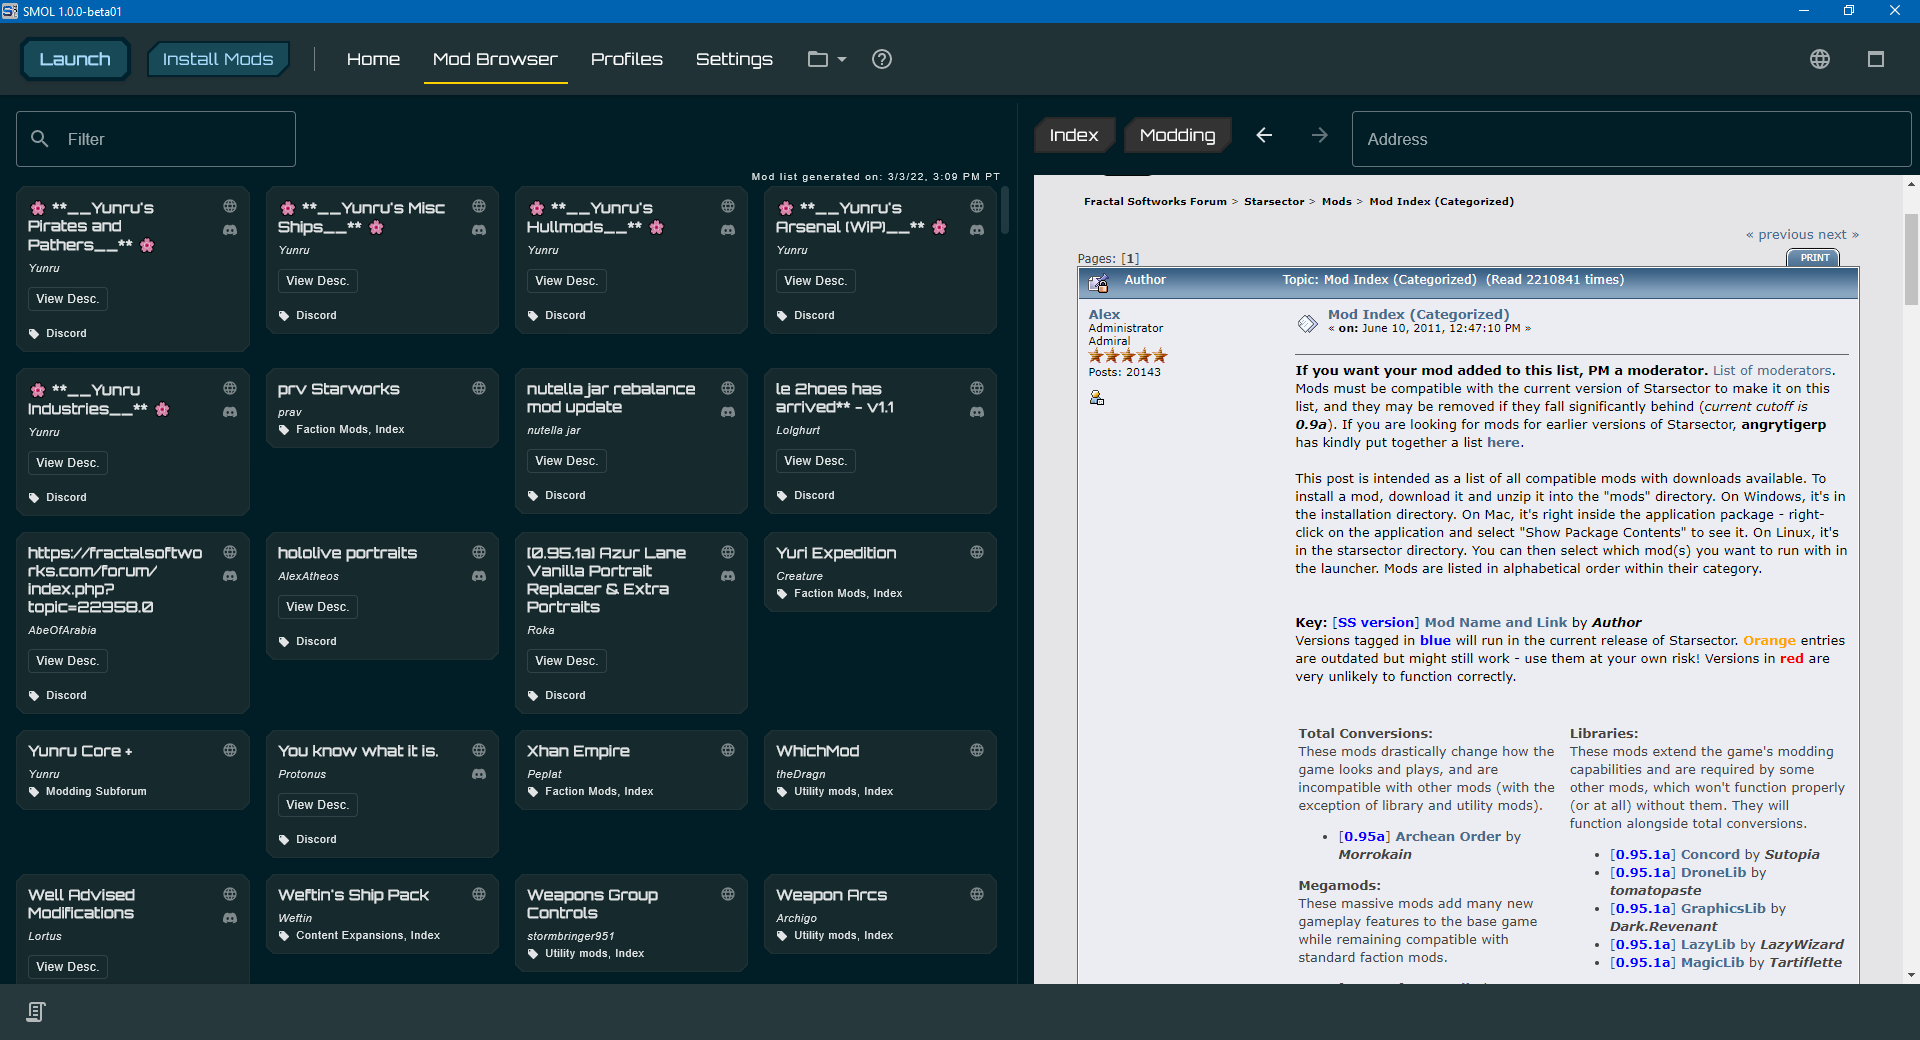
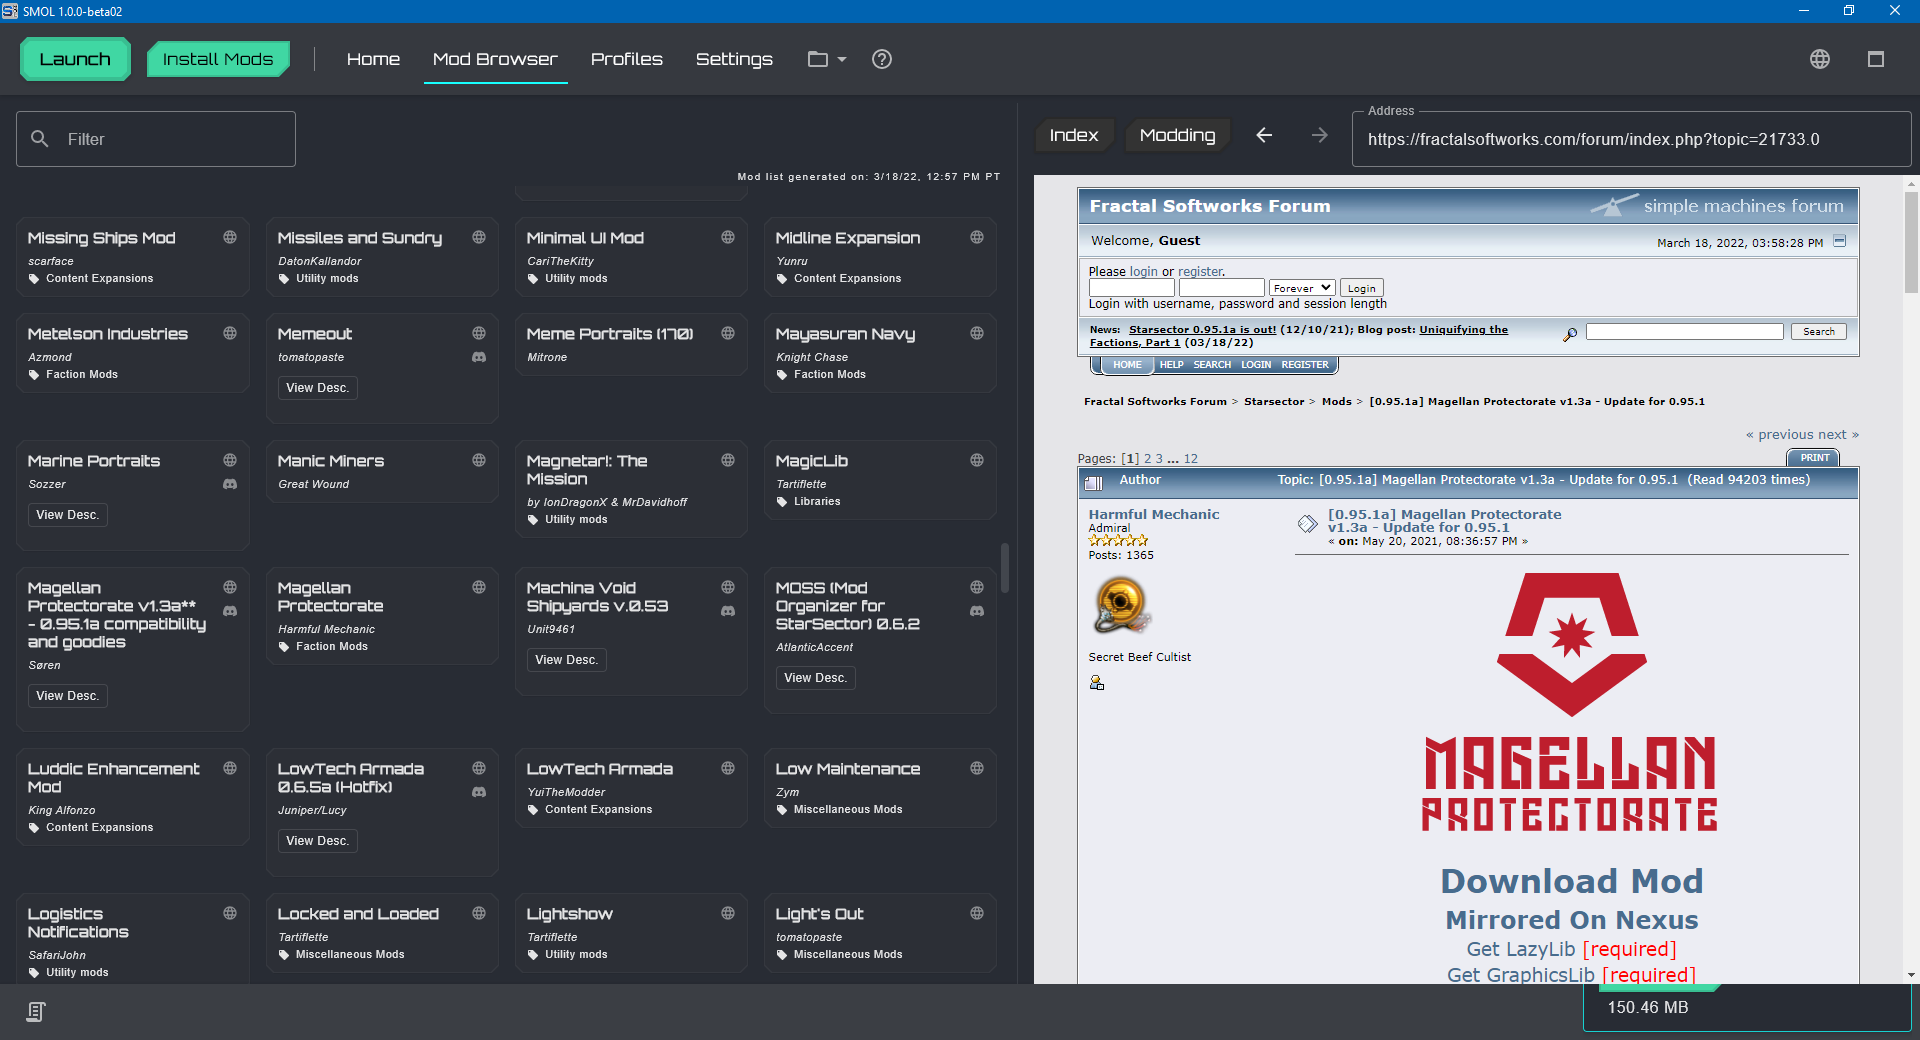
Add warning that launching from SMOL might be fucked.
I want my days of debugging back...

diff --git a/App/main/kotlin/smol_app/toolbar/Toolbar.kt b/App/main/kotlin/smol_app/toolbar/Toolbar.kt
@@ -23,9 +23,7 @@ import androidx.compose.foundation.layout.Row
 import androidx.compose.foundation.layout.padding
 import androidx.compose.foundation.layout.size
 import androidx.compose.material.*
-import androidx.compose.runtime.Composable
-import androidx.compose.runtime.collectAsState
-import androidx.compose.runtime.remember
+import androidx.compose.runtime.*
 import androidx.compose.ui.Alignment
 import androidx.compose.ui.Modifier
 import androidx.compose.ui.draw.drawWithContent
@@ -34,6 +32,7 @@ import androidx.compose.ui.graphics.StrokeCap
 import androidx.compose.ui.res.painterResource
 import androidx.compose.ui.text.font.FontWeight
 import androidx.compose.ui.unit.dp
+import androidx.compose.ui.unit.sp
 import com.arkivanov.decompose.replaceCurrent
 import kotlinx.coroutines.*
 import org.tinylog.Logger
@@ -151,65 +150,54 @@ fun AppScope.launchButton(modifier: Modifier = Modifier) {
     ) {
         SmolButton(
             onClick = {
-                // Game crashes with missing OpenAL unless we use Direct Launch and provide an absolute path to OpenAL.
-                // No idea why.
-                val directLaunch = true
-                if (directLaunch) {
-                    val workingDir = SL.gamePathManager.path.value?.resolve("starsector-core")
-                    val gameLauncher = SL.gamePathManager.path.value?.resolve("jre/bin/java.exe")
-                    val (vmparams, launchPrefs) = kotlin.runCatching {
-                        val vmp = IOLock.read(IOLocks.gameMainFolderLock) {
-                            (SL.gamePathManager.path.value?.resolve("vmparams")?.readText()
-                                ?.removePrefix("java.exe")
-                                ?.split(' ') ?: emptyList())
-                                .filter { it.isNotBlank() }
-                        }
+                if (SL.appConfig.showGameLauncherWarning) {
+                    alertDialogSetter.invoke {
+                        var showGameLauncherWarning by mutableStateOf(SL.appConfig.showGameLauncherWarning)
 
-                        vmp to getStarsectorLaunchPrefs()
-                    }
-                        .onFailure { Timber.w(it) }
-                        .getOrElse { ex ->
-                            alertDialogSetter.invoke {
-                                SmolAlertDialog(
-                                    onDismissRequest = { alertDialogSetter.invoke(null) },
-                                    text = { Text(text = ex.toString(), style = SmolTheme.alertDialogBody()) },
-                                    confirmButton = { SmolButton(onClick = { alertDialogSetter.invoke(null) }) { Text("Ok") } }
-                                )
+                        SmolAlertDialog(
+                            onDismissRequest = { alertDialogSetter.invoke(null) },
+                            title = { Text("WARNING") },
+                            text = {
+                                Column {
+                                    Text(
+                                        text = buildString {
+                                            appendLine("Launching Starsector from SMOL may result in buggy behavior on some computers!")
+                                            appendLine()
+                                            appendLine("If you experience scaling/zoomed UI, rotated ships, or other ghastly behavior, please simply launch Starsector without SMOL.")
+                                        },
+                                        style = SmolTheme.alertDialogBody()
+                                    )
+                                    Text(
+                                        text = "I do apologize for the inconvenience and have spent many, many hours trying to solve this to no avail.",
+                                        fontSize = 13.sp
+                                    )
+                                    Row(
+                                        verticalAlignment = Alignment.CenterVertically,
+                                        modifier = Modifier.padding(top = 16.dp)
+                                    ) {
+                                        Checkbox(
+                                            checked = !showGameLauncherWarning,
+                                            onCheckedChange = { checked ->
+                                                showGameLauncherWarning = !checked
+                                            }
+                                        )
+                                        Text("Don't show again")
+                                    }
+                                }
+                            },
+                            confirmButton = {
+                                SmolButton(onClick = {
+                                    alertDialogSetter.invoke(null)
+                                    SL.appConfig.showGameLauncherWarning = showGameLauncherWarning
+                                    launchStarsector()
+                                }) { Text("Ok") }
                             }
-                            null to null
-                        }
-                    if (vmparams != null && launchPrefs != null) {
-                        val overrideArgs = generateVmparamOverrides(launchPrefs, workingDir, vmparams)
-
-                        CoroutineScope(Job()).launch(Dispatchers.IO) {
-                            runCommandInTerminal(
-                                command = (gameLauncher?.absolutePathString() ?: "missing game path"),
-                                args = overrideArgs.map { it.key + "=" + it.value } + vmparams
-                                    .filter { vanillaParam ->
-                                        // Remove any vanilla params that we're overriding.
-                                        overrideArgs.none { overrideArg ->
-                                            vanillaParam.startsWith(
-                                                overrideArg.key
-                                            )
-                                        }
-                                    },
-                                workingDirectory = workingDir?.toFile()
-                            )
-                        }
-                    }
-                } else {
-                    val workingDir = SL.gamePathManager.path.value?.resolve("starsector-core")
-                    val gameLauncher = SL.gamePathManager.path.value?.resolve("starsector-core/starsector.bat")
-                    CoroutineScope(Job()).launch(Dispatchers.IO) {
-                        runCommandInTerminal(
-                            command = (gameLauncher?.absolutePathString() ?: "missing game path"),
-                            args = listOf(
-                                "-Djava.library.path=${workingDir?.absolutePathString()}\\native\\windows"
-                            ),
-                            workingDirectory = workingDir?.toFile()
                         )
                     }
+                } else {
+                    launchStarsector()
                 }
+
                 // Putting router here is a dumb hack that triggers a recompose when the app UI is invalidated,
                 // which we want so that the button enabled state gets reevaluated.
                 router
@@ -238,9 +226,74 @@ fun AppScope.launchButton(modifier: Modifier = Modifier) {
     }
 }
 
+@OptIn(ExperimentalMaterialApi::class)
+private fun AppScope.launchStarsector() {
+    // Game crashes with missing OpenAL unless we use Direct Launch and provide an absolute path to OpenAL.
+    // No idea why.
+    val directLaunch = true
+    if (directLaunch) {
+        val workingDir = SL.gamePathManager.path.value?.resolve("starsector-core")
+        val starsectorCoreDir = SL.gamePathManager.path.value?.resolve("starsector-core")
+        val gameLauncher = SL.gamePathManager.path.value?.resolve("jre/bin/java.exe")?.normalize()
+        val (vmparams, launchPrefs) = kotlin.runCatching {
+            val vmp = getCurrentVmParams()
+
+            vmp to getStarsectorLaunchPrefs()
+        }
+            .onFailure { Timber.w(it) }
+            .getOrElse { ex ->
+                alertDialogSetter.invoke {
+                    SmolAlertDialog(
+                        onDismissRequest = { alertDialogSetter.invoke(null) },
+                        text = { Text(text = ex.toString(), style = SmolTheme.alertDialogBody()) },
+                        confirmButton = { SmolButton(onClick = { alertDialogSetter.invoke(null) }) { Text("Ok") } }
+                    )
+                }
+                null to null
+            }
+        if (vmparams != null && launchPrefs != null) {
+            val overrideArgs = generateVmparamOverrides(launchPrefs, starsectorCoreDir, vmparams)
+
+            CoroutineScope(Job()).launch(Dispatchers.IO) {
+                runCommandInTerminal(
+                    args = listOf(gameLauncher?.absolutePathString() ?: "missing game path")
+                            + overrideArgs.map { it.key + "=" + it.value } + vmparams
+                        .filter { vanillaParam ->
+                            // Remove any vanilla params that we're overriding.
+                            overrideArgs.none { overrideArg ->
+                                vanillaParam.startsWith(
+                                    overrideArg.key
+                                )
+                            }
+                        },
+                    workingDirectory = workingDir?.toFile()
+                )
+            }
+        }
+    } else {
+        val workingDir = SL.gamePathManager.path.value?.resolve("starsector-core")!!
+        val gameJava = SL.gamePathManager.path.value?.resolve("jre/bin/java.exe")!!
+        val gameLauncher = SL.gamePathManager.path.value?.resolve("starsector-core/starsector.bat")
+        CoroutineScope(Job()).launch(Dispatchers.IO) {
+            runCommandInTerminal(
+                args = listOf(gameJava.absolutePathString(), "-cp", *getCurrentVmParams().toTypedArray()),
+                launchInNewWindow = true,
+                workingDirectory = workingDir.toFile()
+            )
+        }
+    }
+}
+
+private fun getCurrentVmParams() = IOLock.read(IOLocks.gameMainFolderLock) {
+    (SL.gamePathManager.path.value?.resolve("vmparams")?.readText()
+        ?.removePrefix("java.exe")
+        ?.split(' ') ?: emptyList())
+        .filter { it.isNotBlank() }
+}
+
 private fun generateVmparamOverrides(
     launchPrefs: StarsectorLaunchPrefs,
-    workingDir: Path?,
+    starsectorCoreDir: Path?,
     vanillaVmparams: List<String>
 ): Map<String, String?> {
     val vmparamsKeysToAbsolutize = listOf(
@@ -260,7 +313,7 @@ private fun generateVmparamOverrides(
         .mapNotNull { key ->
             // Look through vmparams for the matching key, grab the value of it, and treat it as a relative path
             // to return an absolute one.
-            key to workingDir?.resolve(
+            key to starsectorCoreDir?.resolve(
                 (vanillaVmparams.firstOrNull { it.startsWith("$key=") } ?: return@mapNotNull null)
                     .split("=").getOrNull(1) ?: return@mapNotNull null
             )?.normalize()?.absolutePathString()

diff --git a/Utilities/main/kotlin/utilities/Utils.kt b/Utilities/main/kotlin/utilities/Utils.kt
@@ -14,6 +14,8 @@ package utilities
 
 import timber.ktx.Timber
 import java.io.File
+import java.nio.file.Path
+import kotlin.io.path.absolutePathString
 
 /**
  * Runs a command in the OS's command line.
@@ -22,9 +24,8 @@ import java.io.File
  * Run in a coroutine to avoid this.
  */
 fun runCommandInTerminal(
-    command: String,
-    workingDirectory: File?,
     args: List<String> = emptyList(),
+    workingDirectory: File?,
     launchInNewWindow: Boolean = false,
     newWindowTitle: String? = null
 ) {
@@ -39,14 +40,14 @@ fun runCommandInTerminal(
         else -> listOf("open")
     }.toTypedArray()
 
-    val finalCommands = launcherCommand + command
+    val finalCommands = launcherCommand
 //    withContext(Dispatchers.IO) {
     kotlin.runCatching {
         ProcessBuilder(*finalCommands, *args.toTypedArray())
             .directory(workingDirectory)
-            .apply {
-                environment().clear()
-            }
+//            .apply {
+//                environment().clear()
+//            }
             .also {
                 Timber.i {
                     "Running terminal command: '${

diff --git a/UpdateStager/main/kotlin/updatestager/SmolUpdater.kt b/UpdateStager/main/kotlin/updatestager/SmolUpdater.kt
@@ -79,9 +79,8 @@ class SmolUpdater : BaseAppUpdater() {
 
         GlobalScope.launch {
             runCommandInTerminal(
-                command = command,
                 workingDirectory = File("."),
-                args = listOf("-jar", updateInstallerFilename, "'${updateZipFile.absolutePathString()}'"),
+                args = listOf(command, "-jar", updateInstallerFilename, "'${updateZipFile.absolutePathString()}'"),
                 launchInNewWindow = true,
                 newWindowTitle = "Installing SMOL update..."
             )

diff --git a/SMOL_Access/main/kotlin/smol_access/config/AppConfig.kt b/SMOL_Access/main/kotlin/smol_access/config/AppConfig.kt
@@ -36,6 +36,7 @@ class AppConfig(gson: Jsanity) :
         defaultValue = "https://drive.google.com/uc?id=155Lk0ml9AUGp5NwtTZGpdu7e7Ehdyeth&export=download"
     )
     internal var userProfile: UserProfile? by pref(prefKey = "userProfile", defaultValue = null)
+    var showGameLauncherWarning: Boolean by pref(prefKey = "showGameLauncherWarning", defaultValue = true)
 
     override fun toString(): String {
         return "AppConfig(" +

diff --git a/App/art/post-long.md b/App/art/post-long.md
@@ -1,0 +1,38 @@
+**Starsector Mod Organizer and Launcher (SMOL) Beta 1**
+
+**BETA. It may crash. Some things, or everything, may not work. It *probably* won't delete your mods.**
+**Windows only**
+**400 MB (click the source code link to see why)**
+
+__**Known issues**__: <https://github.com/davidwhitman/SMOL/issues?q=is%3Aissue+is%3Aopen+sort%3Aupdated-desc+label%3Abug>
+- Doesn't start at all - try moving it out of your Starsector folder. Will fix if I can.
+- Launching Starsector may result in a crash complaining about sound initialization (OpenAL), will be fixed in the next beta. Until then, launch Starsector normally, without SMOL.
+- Browser is on top of everything, I have to wait for JetBrains to fix this.
+- Having _any_ outdated version of a given mod installed causes an update warning to appear, even if you have the latest version of that mod. Will be fixed in next beta.
+
+__**Features**__
+* **Mod Browser** to view and install mods from the Forums and #mod_updates without leaving SMOL.
+* Quickly **switch between mod versions**.
+* **Mod Profiles** allow swapping between different groups of mods/versions easily.
+  * Make a new profile for a new save, or keep a barebones profile for mod development.
+* Easily assign more (or less) **RAM** to the game.
+* **Auto-install JRE 8** for better performance and **switch JREs** with a click.
+* **VRAM impact** estimates for each mod.
+* **Version checker** support.
+  * Supports Direct Download, for mods that have added it.
+* Drag'n'drop or file browser **mod installation**.
+  * Detects and fixes incorrect mod folder nesting.
+* Warns and provides fixes for missing mod **dependencies**.
+  * eg. if LazyLib is disabled, a button is shown to enable it. If it is not found, a button appears to search for it online.
+* Works alongside manual mod management; you are **not locked into using SMOL**.
+* Built-in and easily configurable **themes**.
+* **Shortcuts** to your game folder, mods, saves, and log file.
+* **Self-update** downloads only what's needed.
+
+Bug or suggestion? ping @Wisp#0302 or create a thing here: <https://github.com/davidwhitman/SMOL/issues/new/choose>
+
+download:
+**BETA. It may crash. Some things, or everything, may not work. It *probably* won't delete your mods.**
+  zip (200MB): <https://github.com/davidwhitman/SMOL_Dist/releases/download/beta01/SMOL_Dist.zip>
+  7z (155MB): <https://github.com/davidwhitman/SMOL_Dist/releases/download/beta01/SMOL_Dist.7z>
+source code & readme: <https://github.com/davidwhitman/SMOL/tree/dev>

diff --git a/App/art/post-short.md b/App/art/post-short.md
@@ -1,0 +1,27 @@
+**Starsector Mod Organizer and Launcher (SMOL) Beta 2**
+
+**Windows only**
+Features: mod browser, version checking + updating, mod profiles, change Starsector RAM, switch to JRE 8, VRAM estimation, themes, mod dependency warnings, see readme for more.
+```
+Fixed
+- Starsector no longer crashes when launched from SMOL.
+- Version comparison incorrectly said that two versions with unequals lengths are the same, eg "2.7" and "2.7b".
+- If SMOL is unable to start because it cannot create settings files, it will show an error instead of crashing silently.
+Added
+- Added updater for updater. yo dawg.
+Changed
+- Launching Starsector from SMOL now bypasses the launcher (I want to reintroduce this at a later point).
+- Changed disabled extension to .disabled-by-SMOL to prevent some confusion.
+- Added a timeout of 10s to most notifications.
+```
+**Known issues**: <https://github.com/davidwhitman/SMOL/issues?q=is%3Aissue+is%3Aopen+sort%3Aupdated-desc+label%3Abug>
+- Doesn't start at all. Fix: move it out of your Starsector folder or put it in another folder.
+- Browser is on top of everything, I don't have a way to fix this.
+
+Bug or suggestion? ping @Wisp#0302 or create a thing here: <https://github.com/davidwhitman/SMOL/issues/new/choose>
+
+download:
+**BETA. It may crash. Some things may not work.**
+  If you already have SMOL, launch it and it should show an update prompt.
+  7z, click to extract (150MB): <https://github.com/davidwhitman/SMOL_Dist/releases/download/beta02-rc01/SMOL_Dist_7z.exe>
+source code & readme: <https://github.com/davidwhitman/SMOL/tree/dev>
